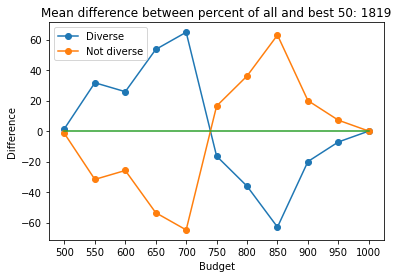
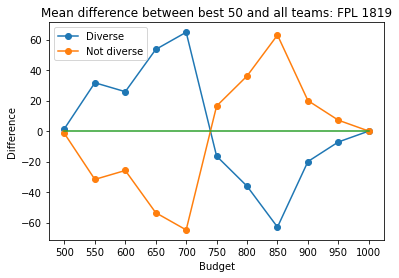
changes for thesis

diff --git a/exam_intervals.py b/exam_intervals.py
@@ -951,7 +951,7 @@ for formation in formations:
 
 #%%
   
-def calcratioandmeandifferenceplots(csvfile, seasons, perc):
+def calcratioandmeandifferenceplots(csvfile, seasons, perc, title):
 
     formnames= ['[3, 4, 3]','[3, 5, 2]','[4, 3, 3]','[4, 4, 2]','[4, 5, 1]','[5, 3, 2]', '[5, 4, 1]']
     
@@ -1001,7 +1001,10 @@ def calcratioandmeandifferenceplots(csvfile, seasons, perc):
         plt.plot(X, np.zeros(11)) 
         plt.xlabel('Budget')
         plt.ylabel('Difference')
-        plt.title('Mean difference between percent of all and best 50: ' +str(season))
+        if season== 'AS':
+            plt.title('Mean difference between best 50 and all teams: AF 2021')
+        else:
+            plt.title('Mean difference between best 50 and all teams: ' + title + str(season))
         plt.legend(labels=['Diverse', 'Not diverse'])
         plt.xticks(X,range(500,1050, 50))
         plt.savefig('plots/' + perc + '/' + str(season) + 'difference.png', bbox_inches='tight')
@@ -1013,11 +1016,14 @@ def calcratioandmeandifferenceplots(csvfile, seasons, perc):
         plt.plot(X,ratiodiv, '-o')
         plt.plot(X,rationor, '-o')
         plt.legend(labels=['Diverse', 'Not diverse'])
-        plt.title('Mean ratio best 50 and all: '+str(season))
+        if season=='AS':
+            plt.title('Mean ratio between best 50 and all teams: AF 2021')
+        else:
+            plt.title('Mean ratio between best 50 and all teams: '+ title + str(season))
         plt.xticks(X,range(500,1050, 50))
         plt.xlabel('Budget')
         plt.ylabel('Ratio')
-        plt.savefig('plots/'+perc+'/' + str(season) + 'ratio.png', bbox_inches='tight')
+        plt.savefig('plots/'+ perc +'/' + str(season) + 'ratio.png', bbox_inches='tight')
     
         plt.show()
 #%%
@@ -1026,13 +1032,13 @@ def calcratioandmeandifferenceplots(csvfile, seasons, perc):
 csvfile= 'results/pl/'
 seasons=[1617,1718,1819,1920,2021]
 perc = 'linperc'
-calcratioandmeandifferenceplots(csvfile, seasons, perc)
+calcratioandmeandifferenceplots(csvfile, seasons, perc, 'FPL ')
 
 #PL intervalperc
 csvfile= 'results/pl/'
 seasons=[1617,1718,1819,1920,2021]
 perc = 'intervalperc'
-calcratioandmeandifferenceplots(csvfile, seasons, perc)
+calcratioandmeandifferenceplots(csvfile, seasons, perc,'FPL ' )
 
 #%%
 
@@ -1041,14 +1047,14 @@ calcratioandmeandifferenceplots(csvfile, seasons, perc)
 csvfile= 'results/pl/'
 seasons=[1617,1819]
 perc = 'noexp/linperc'
-calcratioandmeandifferenceplots(csvfile, seasons, perc)
+calcratioandmeandifferenceplots(csvfile, seasons, perc, 'no exp. ')
 
 #PL noexp interval
 #Calc ratio and mean difference
 csvfile= 'results/pl/'
 seasons=[1617,1819]
 perc = 'noexp/intervalperc'
-calcratioandmeandifferenceplots(csvfile, seasons, perc)
+calcratioandmeandifferenceplots(csvfile, seasons, perc, 'no exp. ')
 #%%
 
 #PL incnew
@@ -1056,27 +1062,27 @@ calcratioandmeandifferenceplots(csvfile, seasons, perc)
 csvfile= 'results/pl/'
 seasons=[1617,1819]
 perc = 'incnew/linperc'
-calcratioandmeandifferenceplots(csvfile, seasons, perc)
-#%%
+calcratioandmeandifferenceplots(csvfile, seasons, perc, 'inc. new ')
+
 #PL incnew intervalperc
 #Calc ratio and mean difference
 csvfile= 'results/pl/'
 seasons=[1617,1819]
 perc = 'incnew/intervalperc'
-calcratioandmeandifferenceplots(csvfile, seasons, perc)
+calcratioandmeandifferenceplots(csvfile, seasons, perc, 'inc. new ')
 
 #%%
 #AS linperc
 csvfile= 'results/as/linperc_' 
 seasons=['AS']
 perc='linperc'
-calcratioandmeandifferenceplots(csvfile, seasons, perc)
+calcratioandmeandifferenceplots(csvfile, seasons, perc, '')
 
 #AS intervalperc
 csvfile= 'results/as/intervalperc_' 
 seasons=['AS']
 perc='intervalperc'
-calcratioandmeandifferenceplots(csvfile, seasons, perc)
+calcratioandmeandifferenceplots(csvfile, seasons, perc, '')
 
 
 

diff --git a/RandomGenreateTeams.py b/RandomGenreateTeams.py
@@ -647,11 +647,11 @@ def calcMuSigmaStep(budget):
     return mu, sigma, step
 
 #%%
-#Kör för att jämföra : 
+#Kör för att jämföra :
     
 #FOR NORMAL, MAYBE NOT START WITH 38 ? CHECK MORE  
 seasons = [0] # 0 för Allsvenskan  
-
+seasons =[2021]
 runs= 100000
 n=11
 
@@ -669,6 +669,10 @@ for season in seasons:
     bestk = [    1,   1,   1,   4,   6,   6,   8,   7,    6]
     #k = randint(1,10) #Trying with random k
     
+    #För att ändra plot till rätt 
+    budgets=[750]
+    bestk=[4]
+    
     randomResults = pd.DataFrame(columns=['Budget', 'Linear/Normal', 'Mean cost', 'Mean points', 'Mean 50 best p', 'Mean 50 worst p', 'Ratio points/costs'])
     idx = 0 
     for j, budget in enumerate(budgets):
@@ -682,6 +686,7 @@ for season in seasons:
         lallpoints, lallcosts, lalldistr=[], [],[]
         lowbin= int(mean-k*5.5)
         bins= [lowbin + i*k for i in range(12)]
+        bins[11]=128
         if bins[0]+k<38:
             break
         
@@ -724,14 +729,14 @@ for season in seasons:
     
     randomResults.to_csv('results/pl/' + str(season) + '/generateRandom.csv')
 
-
-#%%
 #%%
 def plotDistr(distr, title, budget, season):
     #plot the different distributions
     print('Plotting')
     flat_distr = [item for sublist in distr for item in sublist]
 
+    #För att få sista rätt
+    #binsnew=[46, 50, 54, 58, 62, 66, 70, 74, 78, 82, 86, 128]
     plt.hist(flat_distr, range=(38,128), bins=bins)
     plt.title("Individual costs with distr: " + title+ ', Season: ' + str(season) + ',Budget: ' +str(budget) )
     plt.show()

diff --git a/checkDiversityInNations.py b/checkDiversityInNations.py
@@ -92,7 +92,7 @@ for season in seasons:
     plt.bar(statsnations['Nation'][:10],statsnations['Percentage'][:10]*100)
     plt.xticks(rotation='vertical')
     plt.ylabel('Percent of league')
-    plt.title('Top 10 nations in season: ' + str(season))
+    plt.title('Top 10 nations in PL season: ' + str(season))
     plt.show()
 
 #%%
